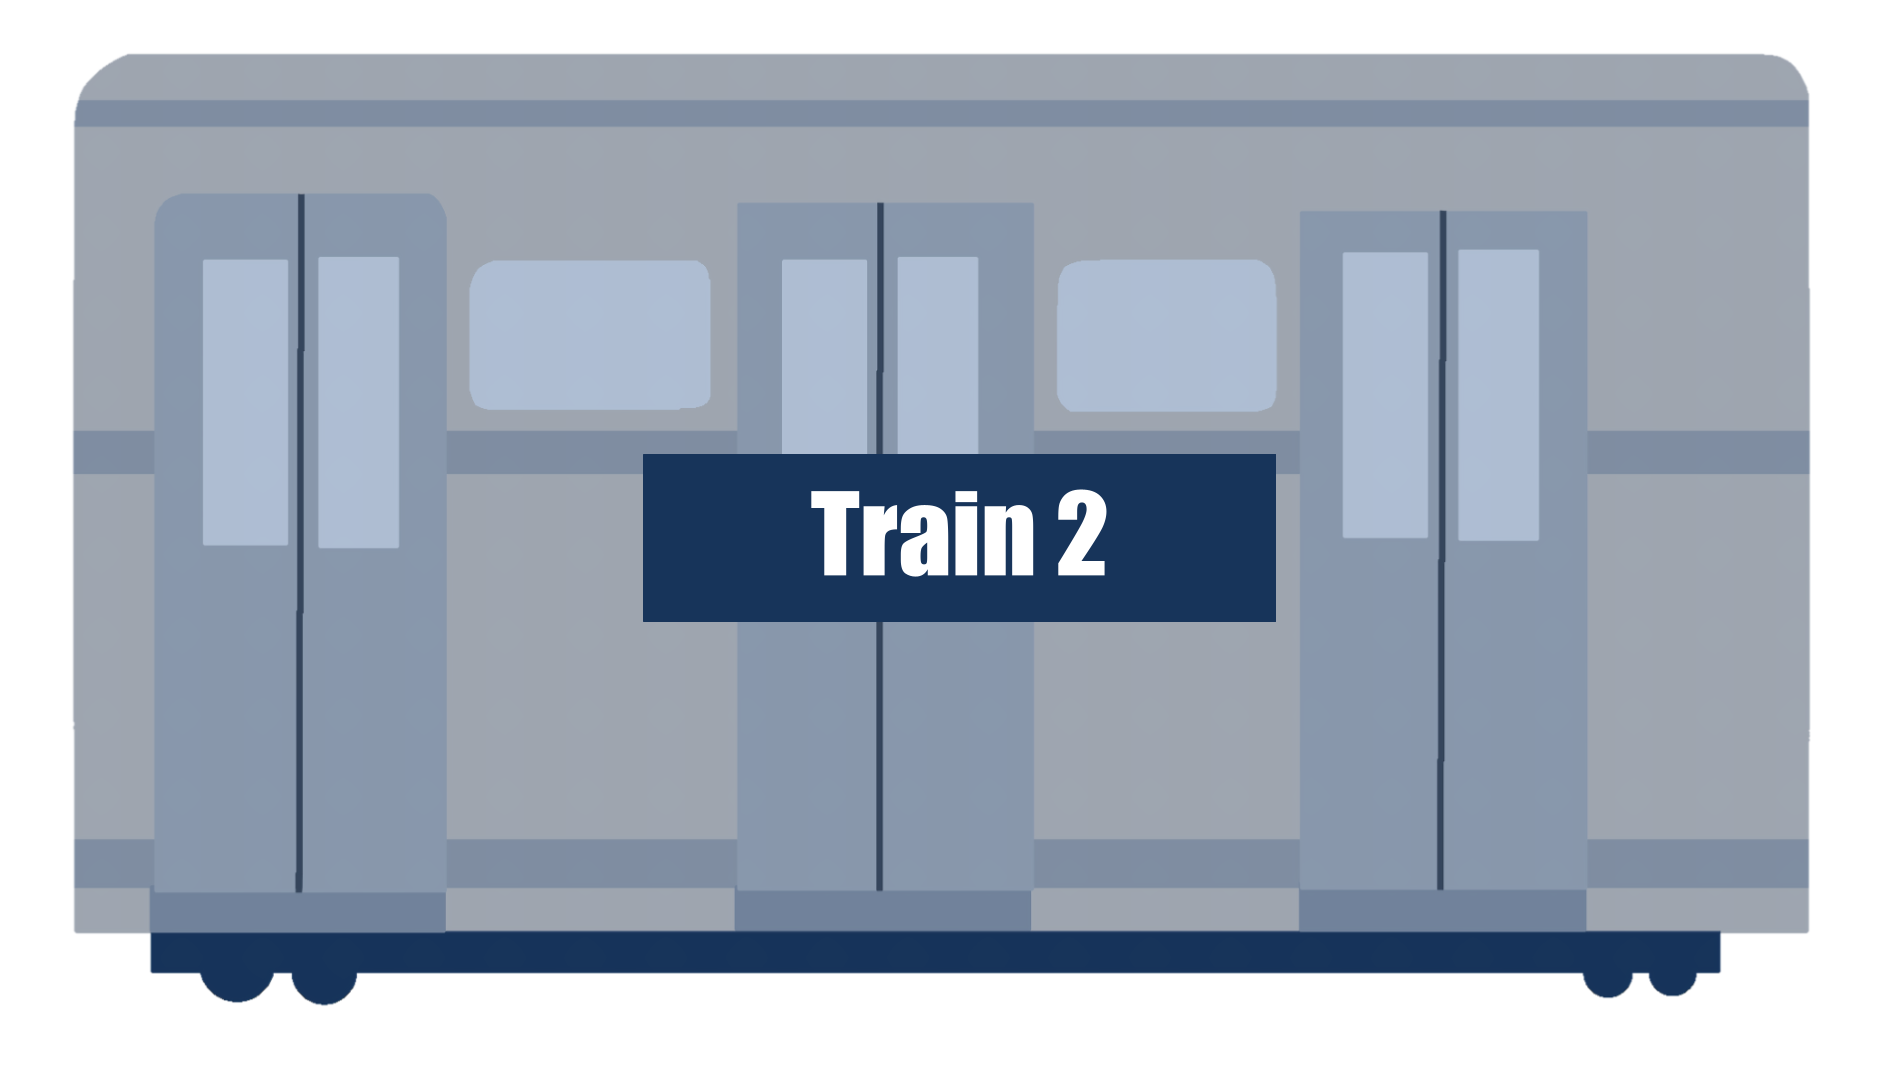
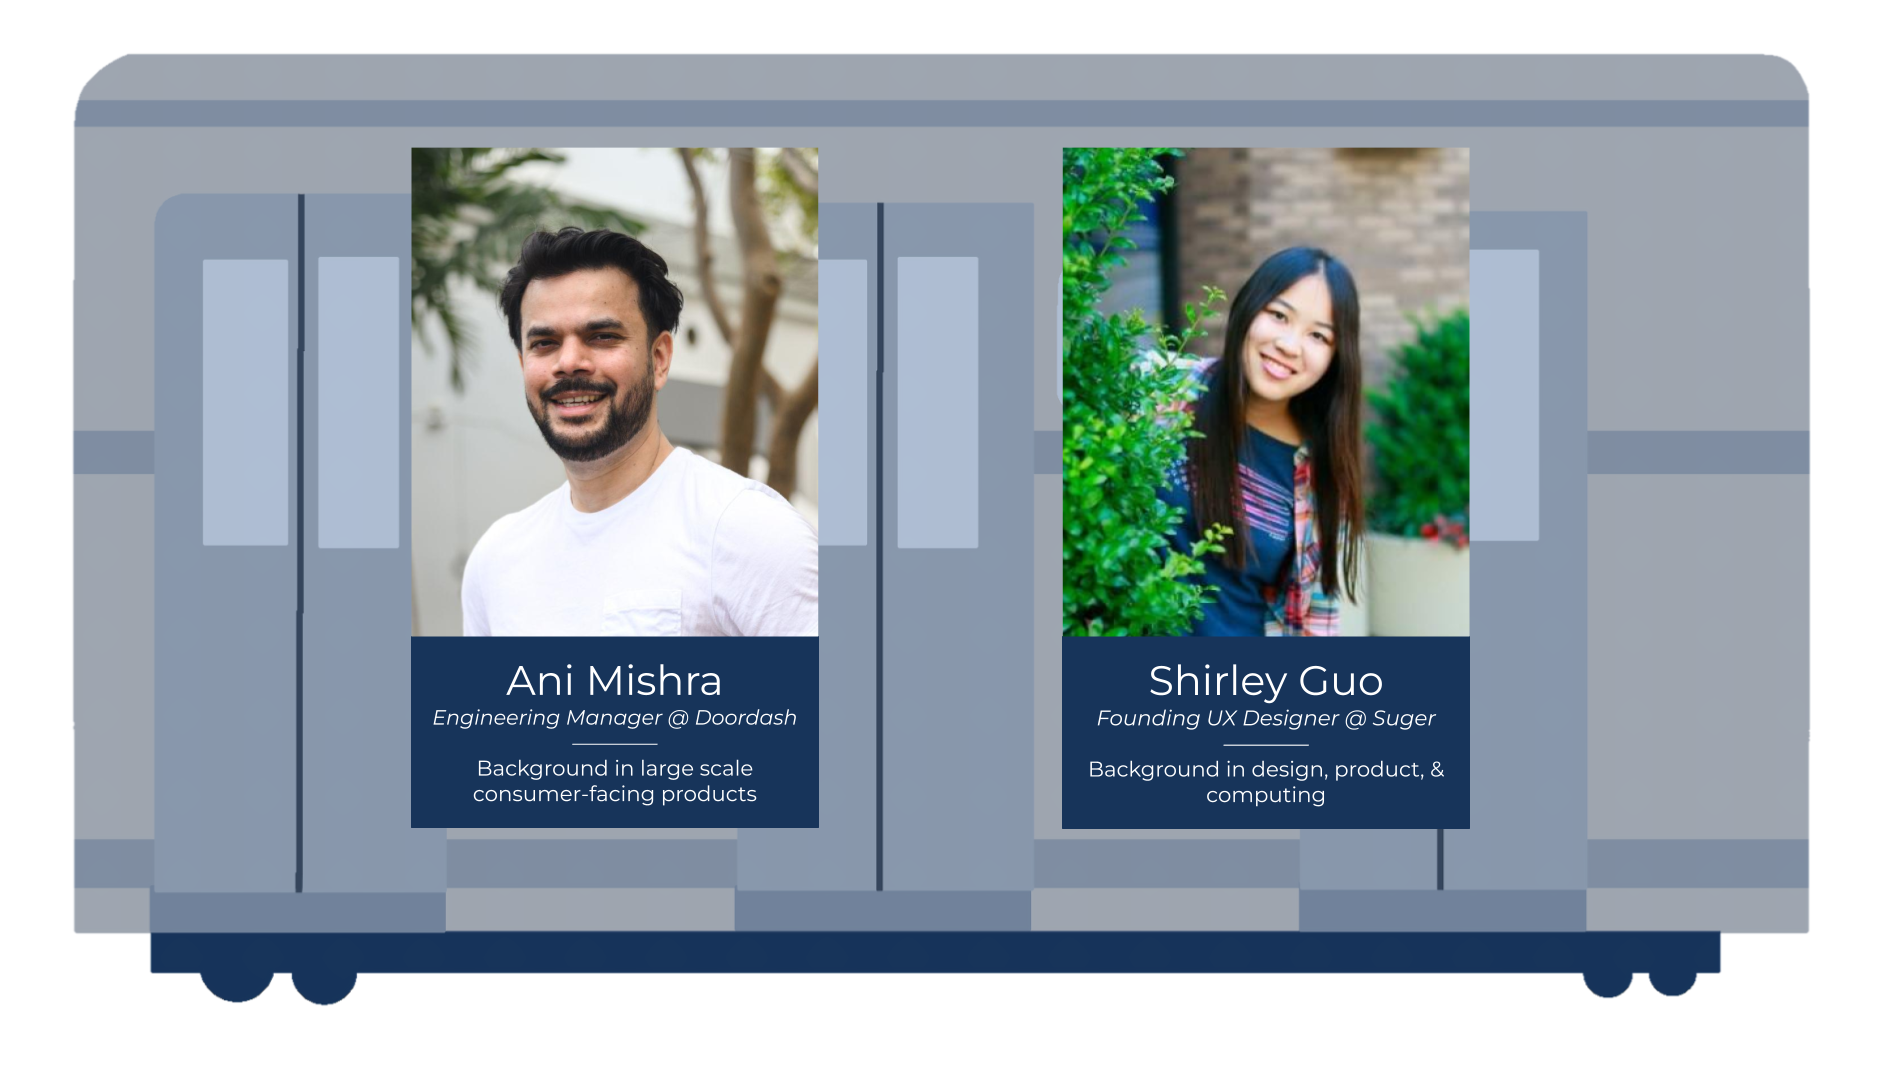
updated the coming judges + speakers section

Changed region(s): [[0.2158, 0.1227, 0.8017, 0.7974]]

diff --git a/2025divhacks/src/pages/Home.js b/2025divhacks/src/pages/Home.js
@@ -14,7 +14,7 @@ import train2 from '../assets/train2.png';
 import train3 from '../assets/train3.png';
 import train4 from '../assets/train4.png';
 import train5 from '../assets/train5.png';
-import train6 from '../assets/train6.png';
+import trainComingSoon from '../assets/trainComingSoon.png';
 import track1img from '../assets/track1.png';
 import track2img from '../assets/track2.png';
 import track3img from '../assets/track3.png';
@@ -54,8 +54,8 @@ export default function Home() {
   ];
   const aboutSectionRef = useRef(null);
   const [aboutCardVisible, setAboutCardVisible] = useState(false);
-  const judgesTrains = [train1, train2, train3];
-  const speakersTrains = [train4, train5, train6]; // Different order to make it obvious when switching
+  const judgesTrains = [train1, train2, train3, train4, train5];
+  const speakersTrains = [trainComingSoon]; // Only the coming soon train for speakers
   const [currentTrainSet, setCurrentTrainSet] = useState('judges'); // 'judges' or 'speakers'
   const [currentTrain, setCurrentTrain] = useState(0);
   const [nextTrain, setNextTrain] = useState(null);
